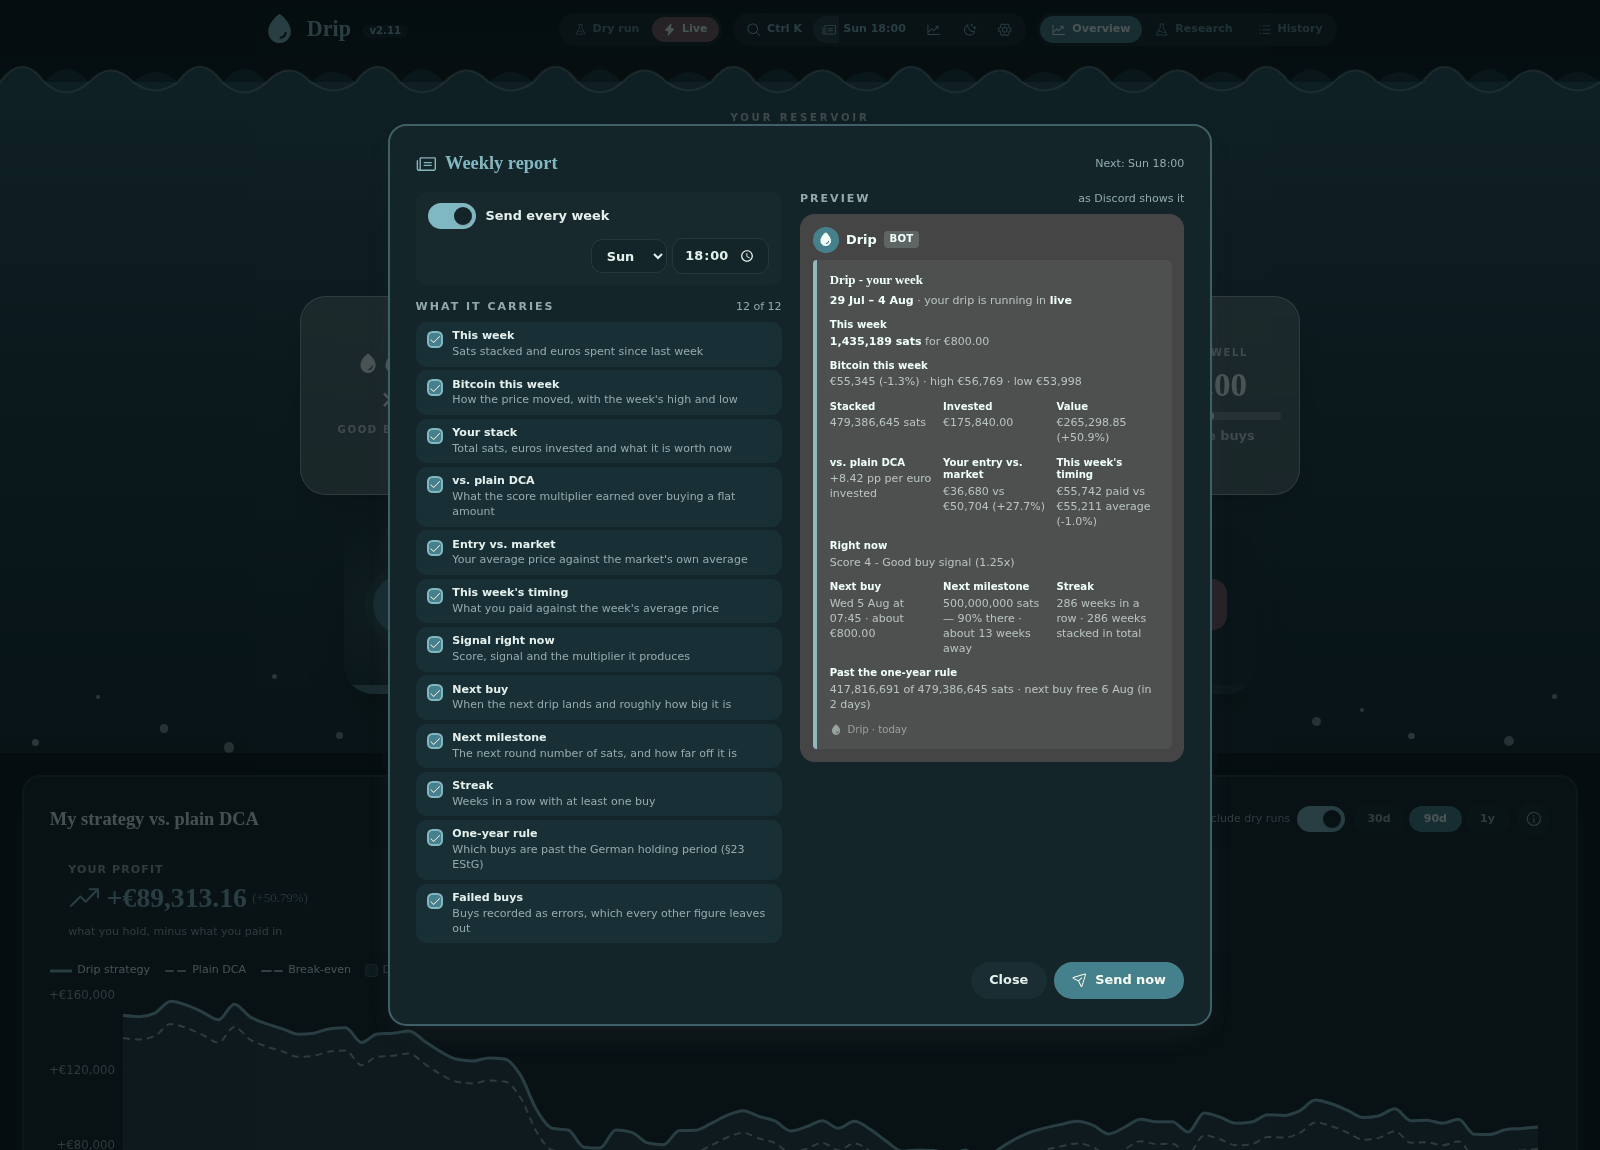
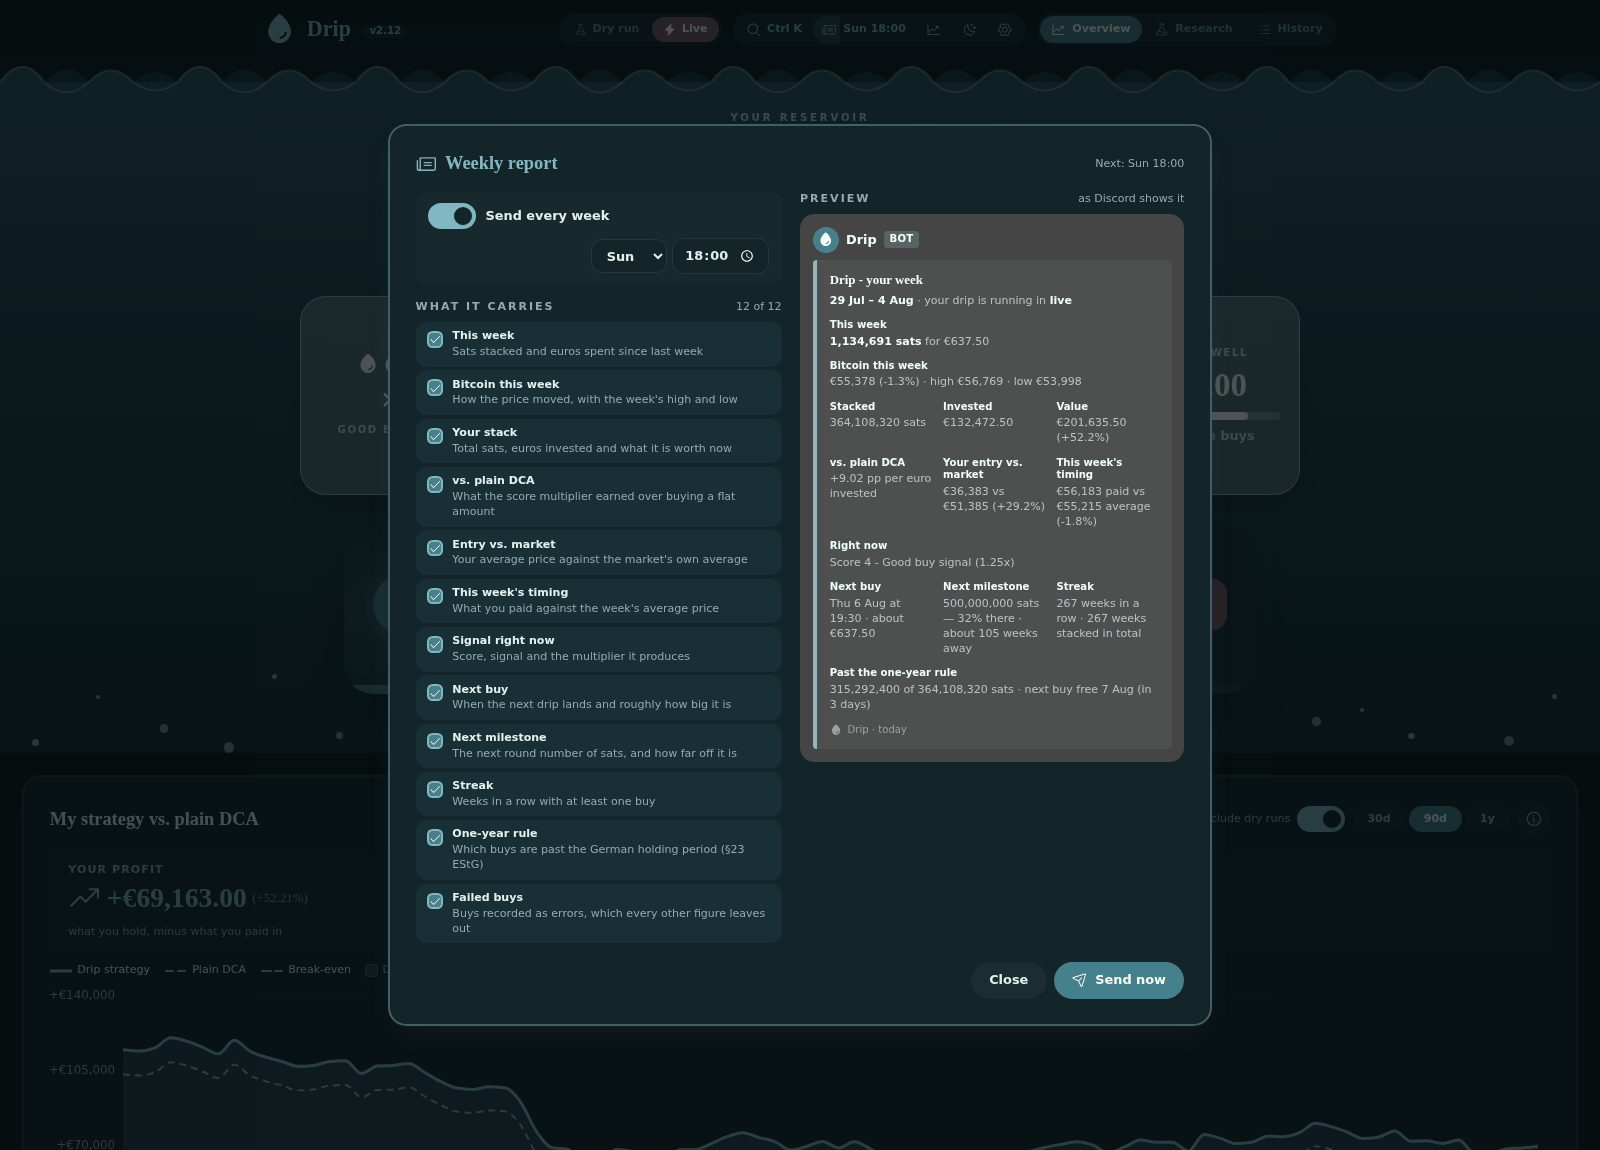
upd: one drop across the buy card

diff --git a/frontend/src/components/palette/buildCommands.tsx b/frontend/src/components/palette/buildCommands.tsx
@@ -2,7 +2,7 @@ import CalendarIcon from "~icons/ph/calendar-blank";
 import ChartLineUpIcon from "~icons/ph/chart-line-up";
 import CircleHalfTiltIcon from "~icons/ph/circle-half-tilt";
 import CurrencyBtcIcon from "~icons/ph/currency-btc";
-import DropHalfBottomIcon from "~icons/ph/drop-half-bottom";
+import DropFillIcon from "~icons/ph/drop-fill";
 import EyeIcon from "~icons/ph/eye";
 import FlaskIcon from "~icons/ph/flask";
 import GearIcon from "~icons/ph/gear-six";
@@ -100,7 +100,7 @@ export function buildCommands(ctx: CommandContext): Command[] {
       label: "Buy now",
       hint: live ? "A real market buy for an amount you pick" : "A dry-run buy for an amount you pick",
       group: "Open",
-      Icon: DropHalfBottomIcon,
+      Icon: DropFillIcon,
       run: ctx.openBuy,
     },
     {

diff --git a/frontend/src/pages/Tank.tsx b/frontend/src/pages/Tank.tsx
@@ -1,6 +1,6 @@
 import { useEffect } from "react";
 import ArrowLeftIcon from "~icons/ph/arrow-left";
-import DropHalfBottomIcon from "~icons/ph/drop-half-bottom";
+import DropFillIcon from "~icons/ph/drop-fill";
 import PauseIcon from "~icons/ph/pause";
 import TrendDownIcon from "~icons/ph/trend-down";
 import TrendUpIcon from "~icons/ph/trend-up";
@@ -124,7 +124,7 @@ export default function Tank({
 
           <Panel caption={paused ? "Paused" : `Next buy · ${nextWhen}`}>
             <span className="inline-flex items-center gap-3">
-              {paused ? <PauseIcon /> : <DropHalfBottomIcon />}
+              {paused ? <PauseIcon /> : <DropFillIcon />}
               {paused ? "—" : nextAmount != null ? fmtEur(nextAmount, 0) : "—"}
             </span>
           </Panel>

diff --git a/frontend/src/components/header/NextBuyActions.tsx b/frontend/src/components/header/NextBuyActions.tsx
@@ -2,7 +2,6 @@ import { useEffect, useRef, useState } from "react";
 import CheckIcon from "~icons/ph/check";
 import DropIcon from "~icons/ph/drop";
 import DropFillIcon from "~icons/ph/drop-fill";
-import DropHalfBottomIcon from "~icons/ph/drop-half-bottom";
 import PauseIcon from "~icons/ph/pause";
 import PencilIcon from "~icons/ph/pencil-simple";
 import PlayIcon from "~icons/ph/play-fill";
@@ -248,7 +247,7 @@ export default function NextBuyActions({
             }`}
           >
             <span className="absolute inset-0 rounded-full ring-8 ring-teal/8" />
-            {paused ? <PauseIcon /> : <DropHalfBottomIcon />}
+            {paused ? <PauseIcon /> : <DropFillIcon />}
           </span>
 
           <div className="min-w-0 flex-1">

diff --git a/frontend/src/version.ts b/frontend/src/version.ts
@@ -17,6 +17,13 @@ export interface Release {
 
 export const CHANGELOG: Release[] = [
   {
+    version: "2.12",
+    date: "2026-08-04",
+    changes: [
+      "The drop beside the next buy — on the card, on the wall display and in the command list — is now Drip's own, the same one the page wears at the top left",
+    ],
+  },
+  {
     version: "2.11",
     date: "2026-08-04",
     changes: [

diff --git a/README.md b/README.md
@@ -16,7 +16,8 @@ Your stack is a tank of water, and it fizzes at the strength of the week's signa
 Underneath, the dashboard researches its own strategy, reports what you paid against
 the market, and carries the rate you stack at forward to the next round number of sats.
 Setting the drip happens on the next-buy card: click the amount, or the day and time.
-Beside them Test and Buy wear Drip's own drop - hollow for a run that spends nothing.
+One drop runs through it - beside the amount, on Buy, hollow on Test, which spends
+nothing.
 Everything else lives in three groups in the bar at the top - mode, tools, sections -
 and `Ctrl+K` reaches all of it, keys included, so the Pi needs no shell after the first
 install. Once a week the whole thing arrives on Discord.
